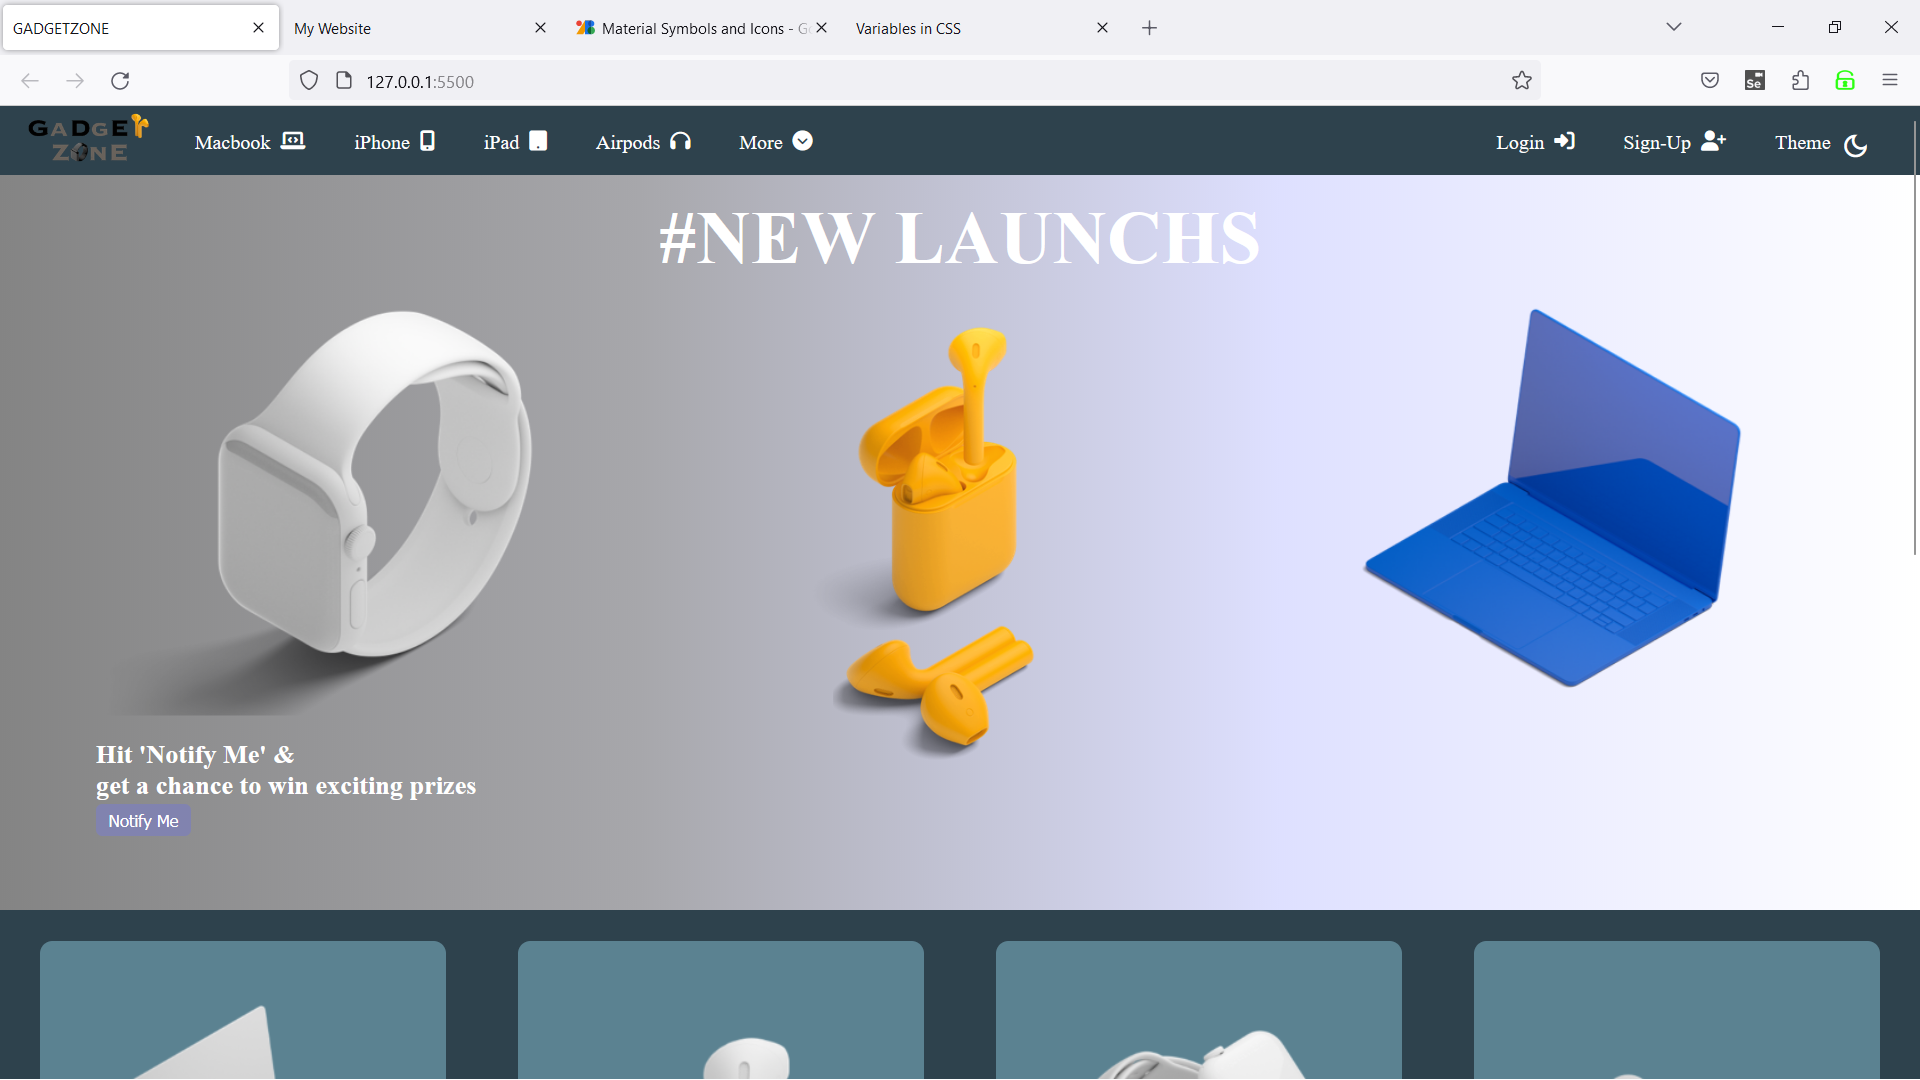
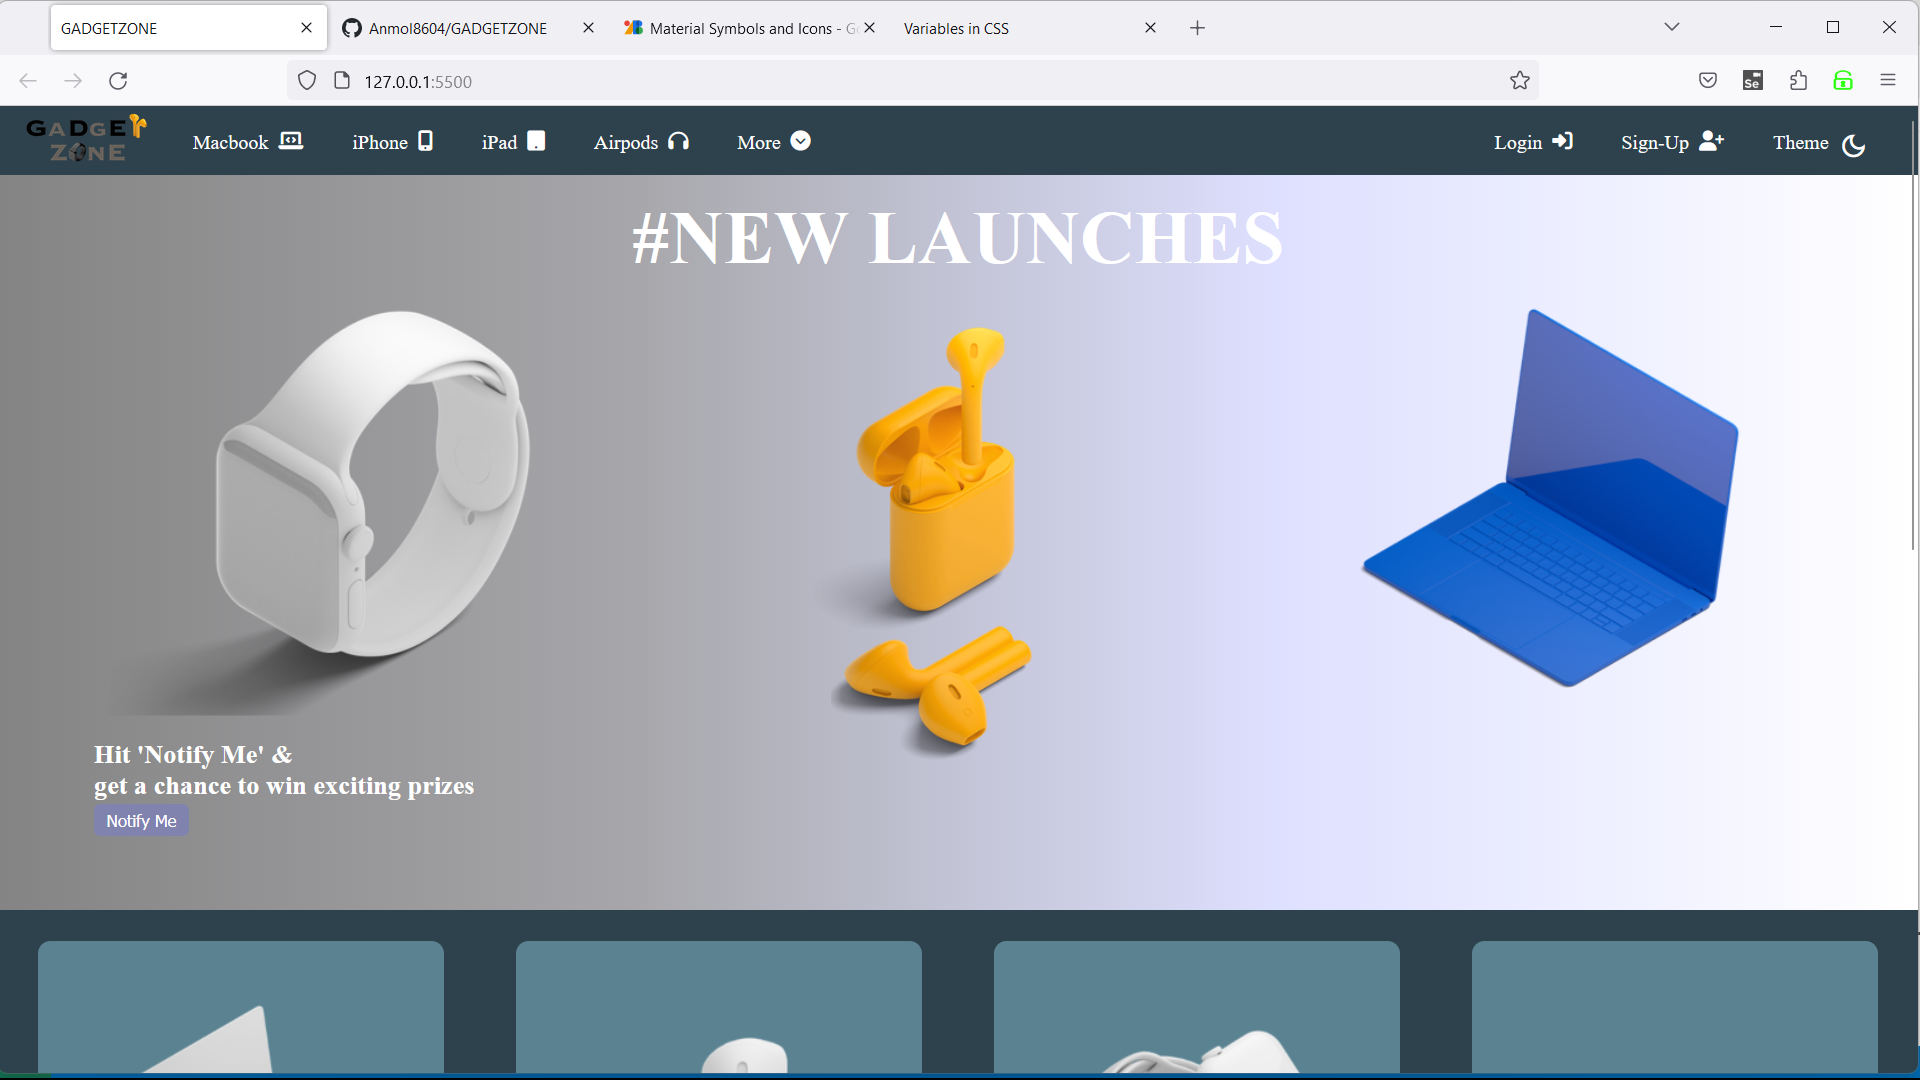
theme change

diff --git a/index.html b/index.html
@@ -105,11 +105,10 @@
                     <div class="navicon border">
                         <div class="flex" id="toggle">
                             <p class="navcol">Theme</p>
-                            <!-- <i class="material-symbols-outlined"></i> -->
                             <span class="material-symbols-outlined">dark_mode</span>
-                            <!-- </button> -->
                         </div>
-                    </div>
+                    </div> 
+               
                 </div>
             </div>
         </nav>
@@ -119,7 +118,7 @@
         <div class="newLaunch flex">
             <img src="images/NewLaunch.png" class="ban" alt="">
             <div class="lau">
-                <p class="p">#NEW LAUNCHS</p>
+                <p class="p">#NEW LAUNCHES</p>
             </div>
             <div class="hit">
                 <p>Hit 'Notify Me' &</p>
@@ -205,6 +204,7 @@
 
                 </div>
             </div>
+
             <!-- Card 1 -->
             <div class="hove">
                 <div class="card">
@@ -223,7 +223,7 @@
                     </div>
                 </div>
             </div>
-
+       
             <!-- Card 2 -->
             <div class="hove">
                 <div class="card">
@@ -296,6 +296,7 @@
             document.body.classList.toggle('dark');
         }
     </script>
+
 </body>
 
 </html>

diff --git a/README.md b/README.md
@@ -11,7 +11,7 @@
 > **On date 1July,2023**
 > 
 *Change in Navigation bar and new launch banner added*
-> ![Alt text](how_it_started/1st%2C%20july.png)
+> ![Alt text](how_it_started/1st%2Cjuly.png)
 
 > **On date 2July,2023**
 > 
